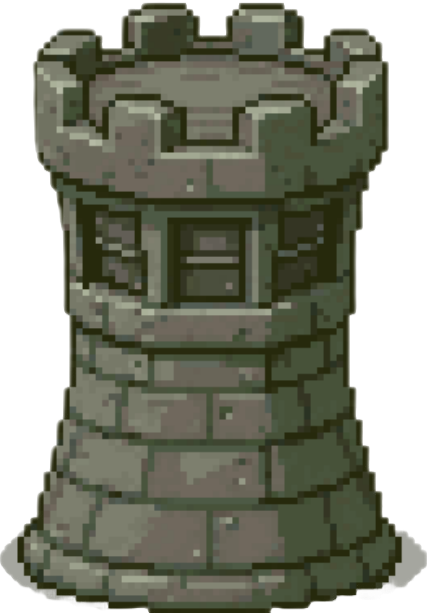
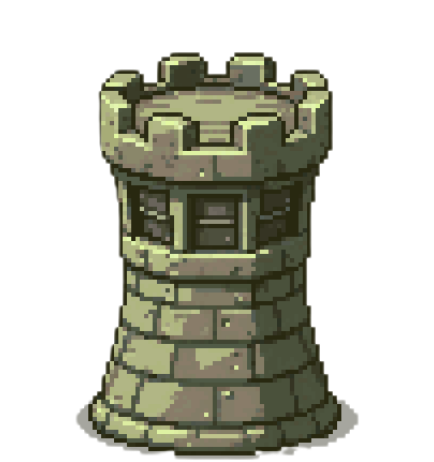
fix: make the fox tower scroll with the background

diff --git a/js/background.js b/js/background.js
@@ -69,6 +69,11 @@ class Background {
 
         // Zone actuellement active (ville ou forêt)
         this.currentZone = 'city';
+        
+        // Position et vitesse de la tour, indépendantes du tableau de layers
+        // car elle ne doit pas se répéter à chaque imgW comme un vrai tile
+        this.towerX = 580;
+        this.towerSpeed = 1; // même vitesse que bgBarbedWires pour rester cohérente visuellement
     }
 
     // Draw a single parallax layer looped
@@ -85,12 +90,12 @@ class Background {
     }
 
     // Draw all layers of the current zone
-    draw() {
+    draw(showTower = false) {
         const layers = this.currentZone === 'city' ? this.cityLayers : this.forestLayers;
         for (let i = 0; i < layers.length; i++) {
             this.drawLayer(layers[i]);
             // Draw tower after middle layer (index 4), before barbed wires
-            if (this.currentZone === 'city' && i === 5) {
+            if (this.currentZone === 'city' && i === 5 && showTower) {
                 this.drawFoxTower();
             }
         }
@@ -98,11 +103,10 @@ class Background {
 
     //Draw the tower for the fox
     drawFoxTower() {
-        const towerW = 120;
-        const towerH = 150;
-        const towerX = 580; // same x as the fox so it looks like the fox is on the tower
-        const towerY = GROUND_Y - towerH - 17;
-        ctx.drawImage(foxTower, towerX, towerY, towerW, towerH);
+        const towerW = 200;
+        const towerH = 207;
+        const towerY = GROUND_Y - towerH - 8;
+        ctx.drawImage(foxTower, this.towerX, towerY, towerW, towerH);
     }
 
     // Scroll and loop
@@ -118,6 +122,8 @@ class Background {
                 layer.x = 0; // remet l'image à sa place initial pour la boucle
             }
         }
+        // Scroll de la tour, synchronisée avec le décor
+        this.towerX -= this.towerSpeed;
     }
 
     // Switch to a different zone, call background.setZone('forest') to trigger transition

diff --git a/js/enemy.js b/js/enemy.js
@@ -34,9 +34,10 @@ const fox = {
     attack: 15,
     defense: 10,
     x: 600,
-    y: canvas.height * 0.93 - 150 - 64 + 25 - 17, // position on the tower
+    y: GROUND_Y - 207 - 8 - 64, // position on the tower
     width: 80,
     height: 64,
+    speedX: -1,
     respawnTimer: 180, // respawn after 3 seconds
     shootTimer: 0,
     shootInterval: 180, // shoot every 3 seconds at 60fps
@@ -72,10 +73,11 @@ function spawnEnemies(waveNumber) {
     crow.speedX = -speedBoost; // negative so it moves left
 
     fox.health = 150;
-    fox.x = 600;
-    fox.y = GROUND_Y - 150 - 64 + 25 - 17; // GROUND_Y - towerH - fox.height
+    fox.x = 500;
+    fox.y = GROUND_Y - 207 - 8 - 64 + 60; // GROUND_Y - towerH - fox.height
     fox.visible = true;
     fox.shootTimer = 0;
+    background.towerX = fox.x - 60;
 
     rat.health = 50;
     rat.x = canvas.width + 20; // spawn off screen to the right
@@ -103,11 +105,12 @@ function respawnCrow() {
 
 function respawnFox() {
     fox.health = 150;
-    fox.x = 600;
-    fox.y = GROUND_Y - 150 - 64 + 25 - 17; // GROUND_Y - towerH - fox.height
+    fox.x = canvas.width + 20;
+    fox.y = GROUND_Y - 207 - 8 - 64 + 60; // GROUND_Y - towerH - fox.height
     fox.visible = true;
     fox.shootTimer = 0;
     fox.shootInterval = Math.max(60, fox.shootInterval - 20); // shoot faster each wave, but not less than 1 second (60 frames)
+    background.towerX = fox.x - 60; // la tour réapparaît à droite, alignée avec le renard
 }
 
 function respawnRat() {

diff --git a/js/game.js b/js/game.js
@@ -9,7 +9,7 @@ function render() {
     ctx.clearRect(0, 0, canvas.width, canvas.height);
 
     // Draw background layers (must be first, behind everything)
-    background.draw();
+    background.draw(true);
 
     // Draw the player
     if (player.facingLeft) {
@@ -137,10 +137,13 @@ function update() {
         }
     }
 
-    //Fox shoot from tower and stay static
+    //Fox shoot from tower and move with it
     if (fox.visible) {
         fox.shootTimer++;
-        
+        fox.x += fox.speedX; 
+        if (fox.x + fox.width < 0) {
+        fox.visible = false;
+        }
     }
 
     //Move the rat
@@ -276,6 +279,7 @@ function gameLoop() {
             musicGameMenu.currentTime = 0;
             musicGameplay.currentTime = 0;
             musicGameplay.play().catch(() => {});
+            background.towerX = fox.x - 60; // resynchronise juste avant que le gameplay (et la tour) deviennent visibles
             gameStarted = true;
         }
     }

diff --git a/js/input-handler.js b/js/input-handler.js
@@ -78,6 +78,7 @@ canvas.addEventListener('click', (event) => {
             musicGameMenu.currentTime = 0;
             musicGameplay.currentTime = 0;
             musicGameplay.play().catch(() => {});
+            background.towerX = fox.x - 60; 
             gameStarted = true;
         }
         // Clic sur le bouton Commandes (60x60, en bas à droite)